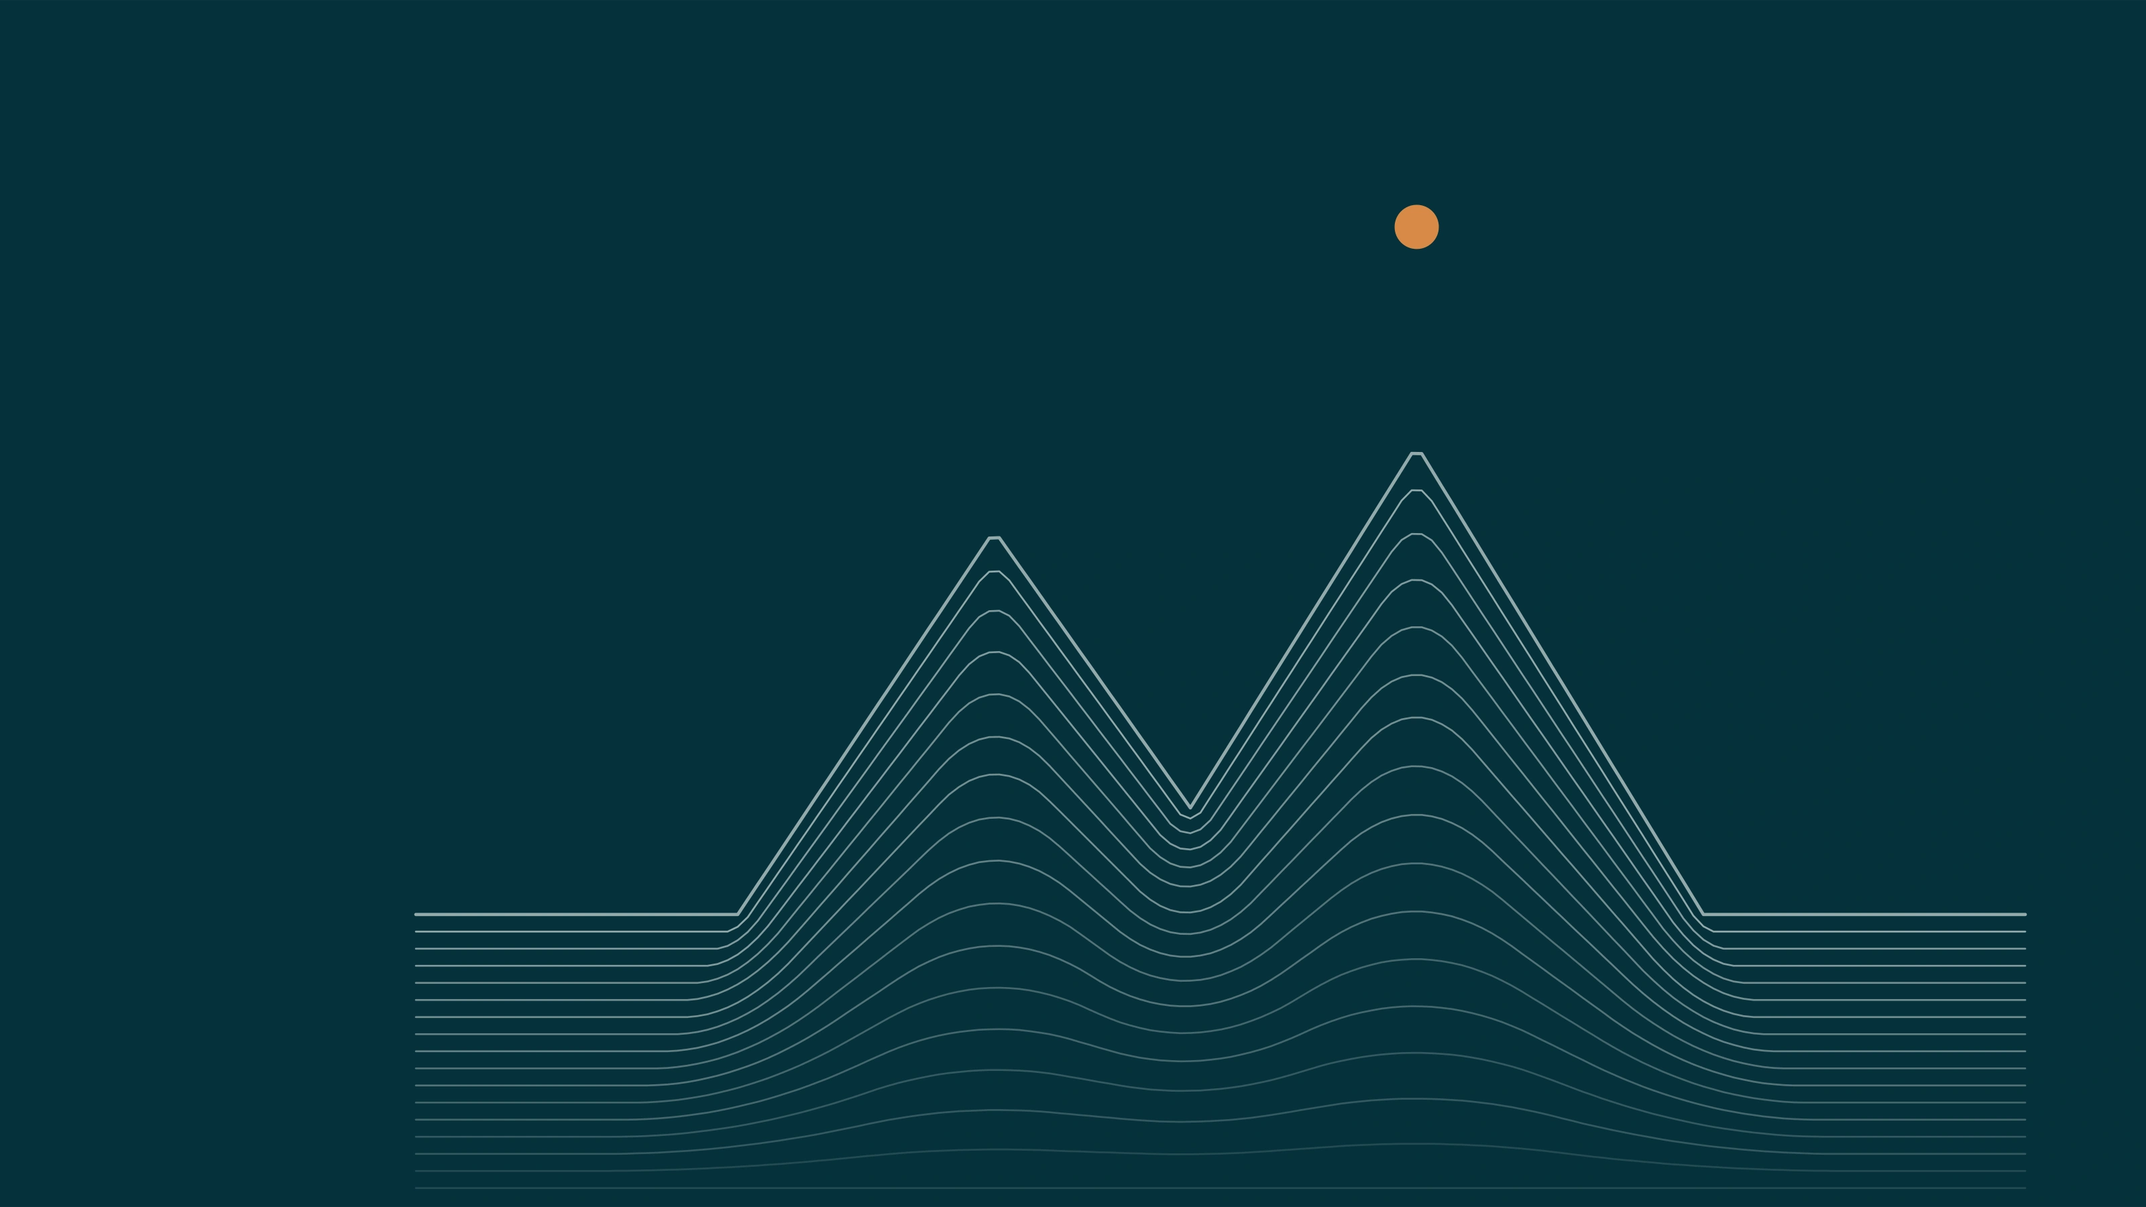
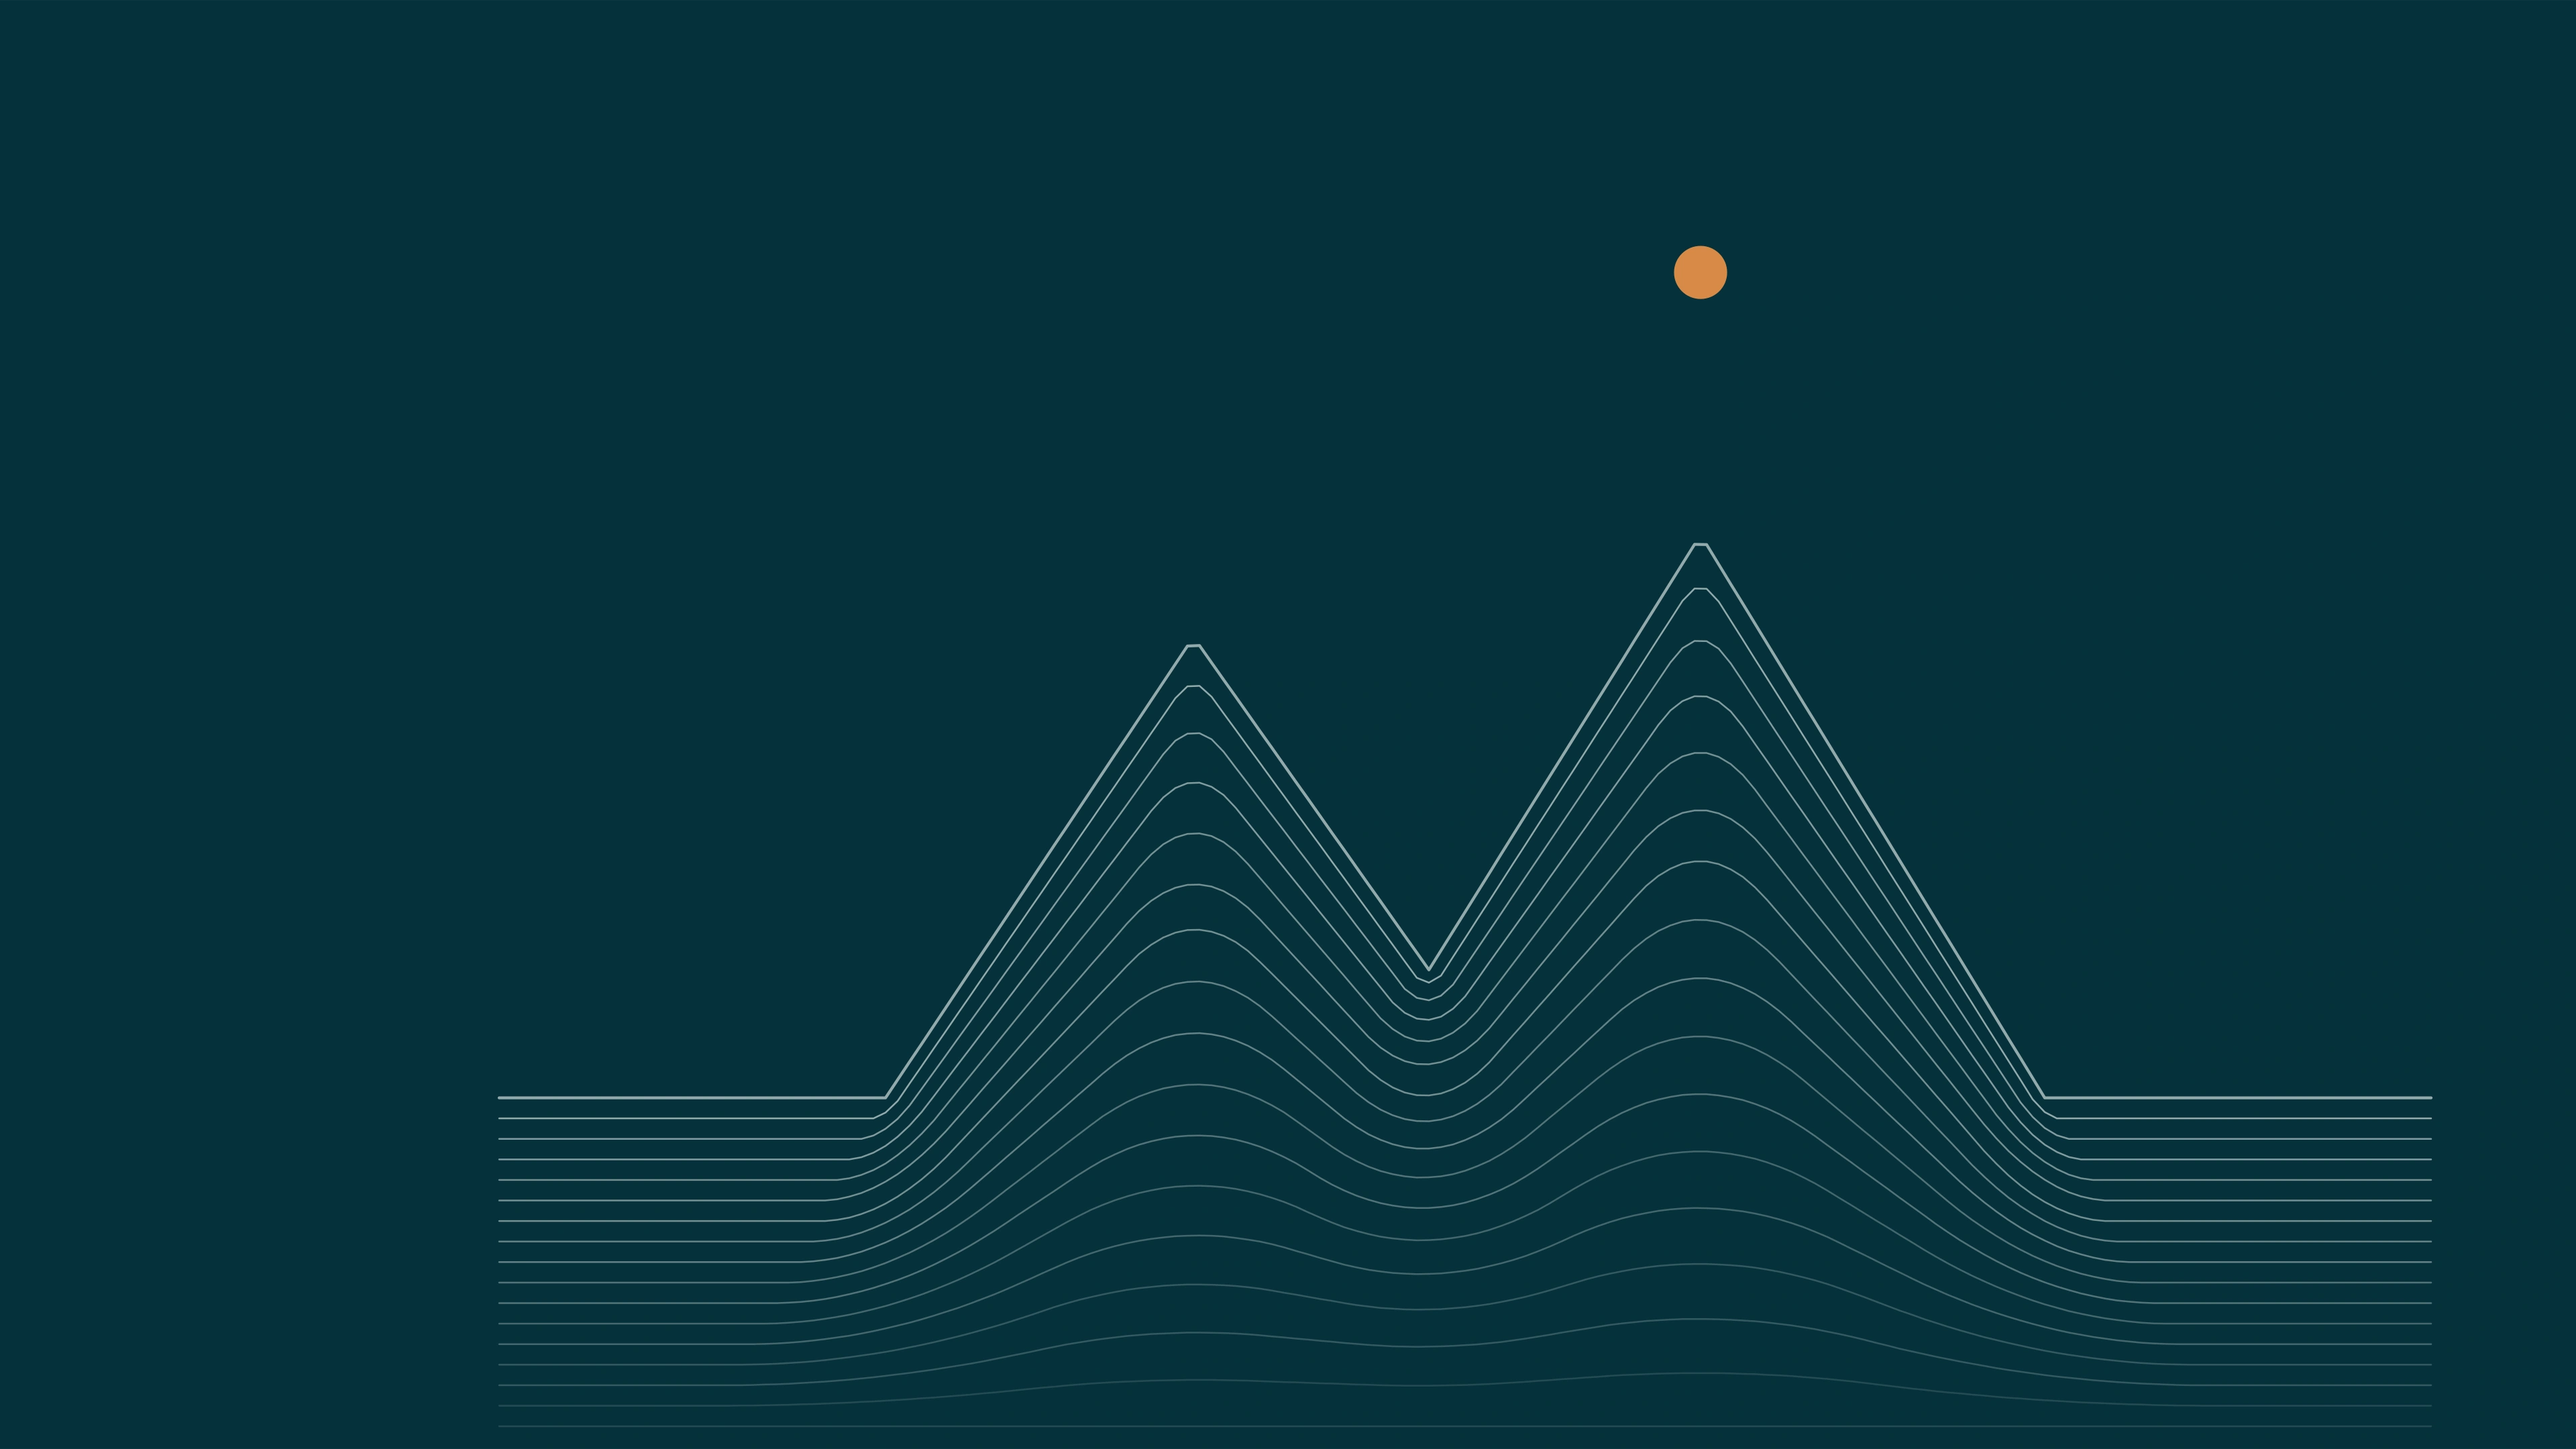
Render the placeholder masters at device resolution
A full-bleed hero on a retina laptop asks Next for its largest rung,
w=3840. The masters were 2800 and 3200 wide, so the optimizer served
them at native size and the browser stretched them the last ~1.4x —
and interpolation smears exactly what this artwork is made of, hairline
strokes. That was the pixelation visible along the lines on the preview.

The masters are rasterised from vector geometry, so resolution is free:
render them at 3840 (16:9 hero at 3840x2160, 3:2 cards at 3840x2560) and
no screen receives an upscale. Verified against the running optimizer:
w=3840 now returns native 3840px AVIF at 52KB, and a 1:1 crop of the
steep slope shows clean anti-aliased lines.

Changed region(s): [[0.7812, 0.7467, 0.9375, 0.7778], [0.2188, 0.7467, 0.3438, 0.7778]]

diff --git a/scripts/generate-seed-imagery.ts b/scripts/generate-seed-imagery.ts
@@ -9,9 +9,10 @@
  * right. They exist so the layouts have something honest in them before a
  * shoot happens, and so they can be swapped in the admin without touching code.
  *
- * They are deliberately rendered at roughly twice the widest slot each one
- * lands in, because the earlier set (1600px wide) was being asked to fill 2700
- * device pixels on the Forum hero and read as soft. The grounds are flat: a
+ * They are rendered at 3840 wide — the largest width Next's optimizer will
+ * ever request — so no screen receives an upscale. The earlier sets (1600,
+ * then 2800) were being stretched ~1.4x on retina laptops, and interpolation
+ * smears exactly what this artwork is made of: hairline strokes. The grounds are flat: a
  * gradient at this size posterises into visible bands, and the contour field
  * is what carries the depth anyway.
  *
@@ -42,12 +43,12 @@ interface Asset {
 const assets: Asset[] = [
   {
     file: 'mhg-hero.webp',
-    width: 3200,
-    height: 1800,
+    width: 3840,
+    height: 2160,
     note: 'full-bleed 16:9 — home CTA band and media blocks',
     svg: ridgeSVG({
-      width: 3200,
-      height: 1800,
+      width: 3840,
+      height: 2160,
       ground: BRAND_COLORS.deep,
       stroke: BRAND_COLORS.reversed,
       accent: BRAND_COLORS.amberOnDark,
@@ -60,12 +61,12 @@ const assets: Asset[] = [
   },
   {
     file: 'mhg-card-teal.webp',
-    width: 2800,
-    height: 1867,
+    width: 3840,
+    height: 2560,
     note: '3:2 — post heroes and card art, the quieter of the two',
     svg: ridgeSVG({
-      width: 2800,
-      height: 1867,
+      width: 3840,
+      height: 2560,
       ground: BRAND_COLORS.petrol,
       stroke: BRAND_COLORS.reversed,
       lines: MAX_UNCLIPPED_LINES,
@@ -76,12 +77,12 @@ const assets: Asset[] = [
   },
   {
     file: 'mhg-card-amber.webp',
-    width: 2800,
-    height: 1867,
+    width: 3840,
+    height: 2560,
     note: '3:2 — the Forum hero and anything that should carry the goal',
     svg: ridgeSVG({
-      width: 2800,
-      height: 1867,
+      width: 3840,
+      height: 2560,
       ground: BRAND_COLORS.deep,
       stroke: BRAND_COLORS.amberOnDark,
       accent: BRAND_COLORS.amberOnDark,
